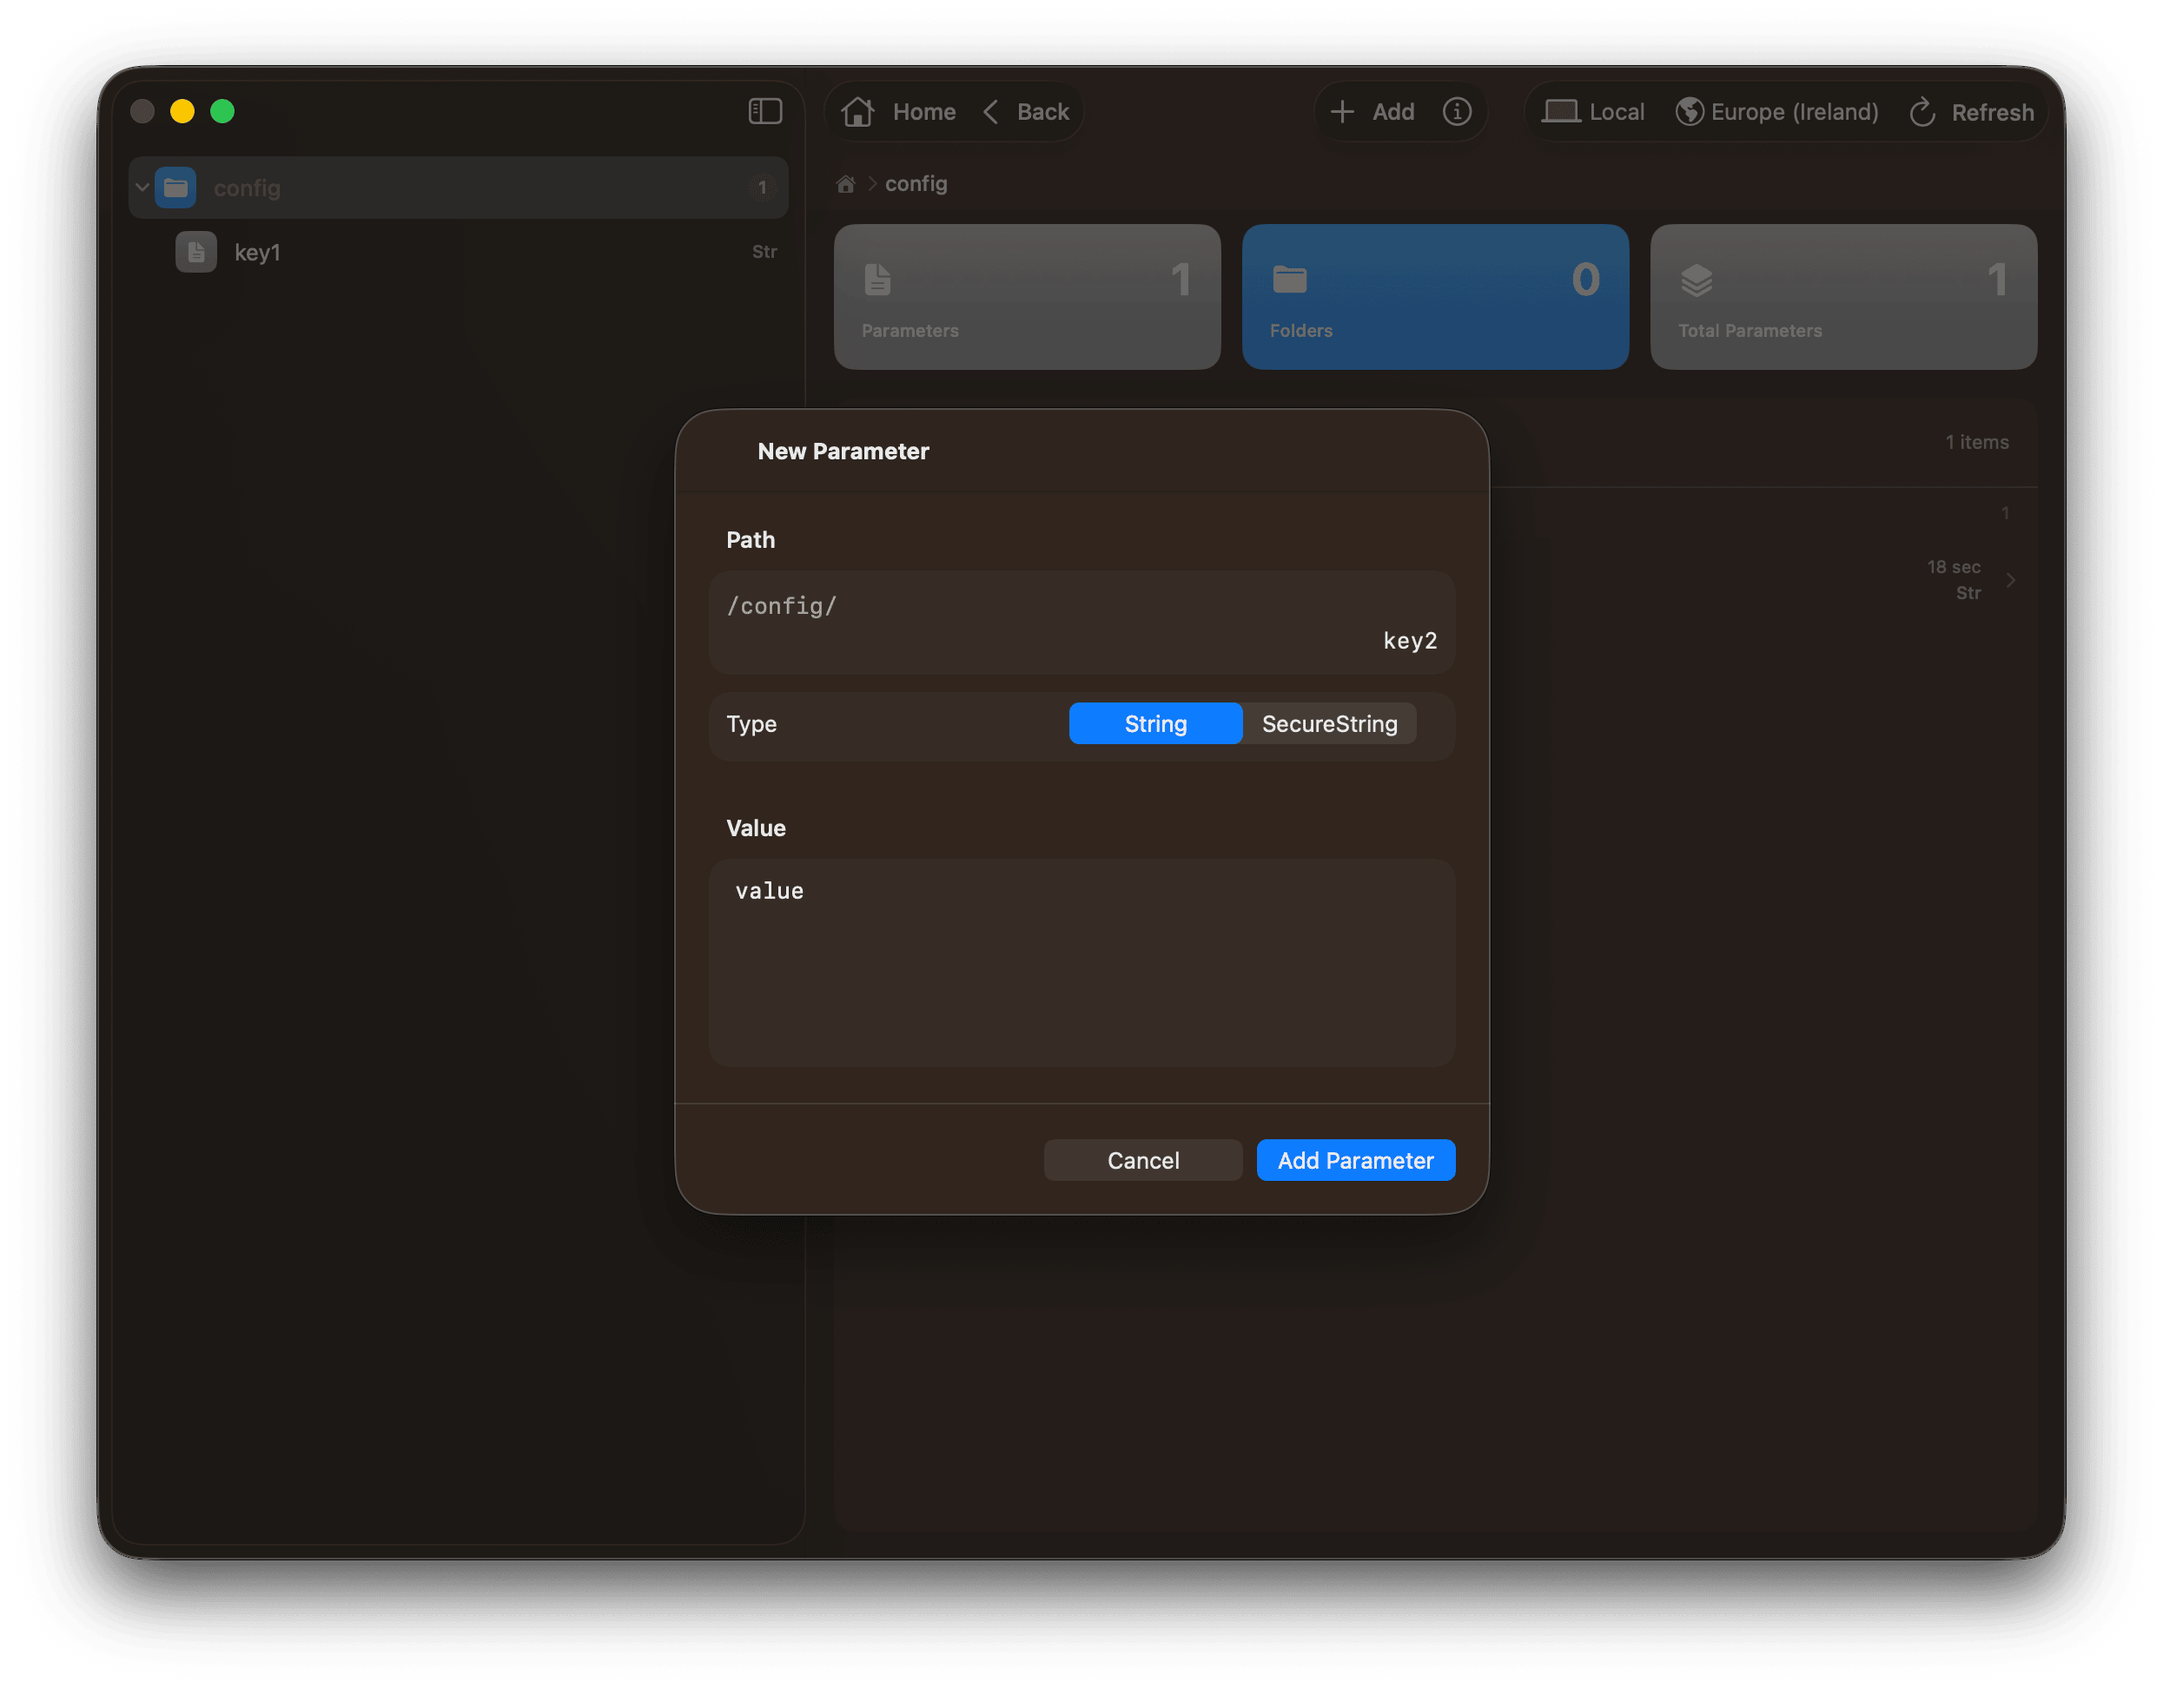
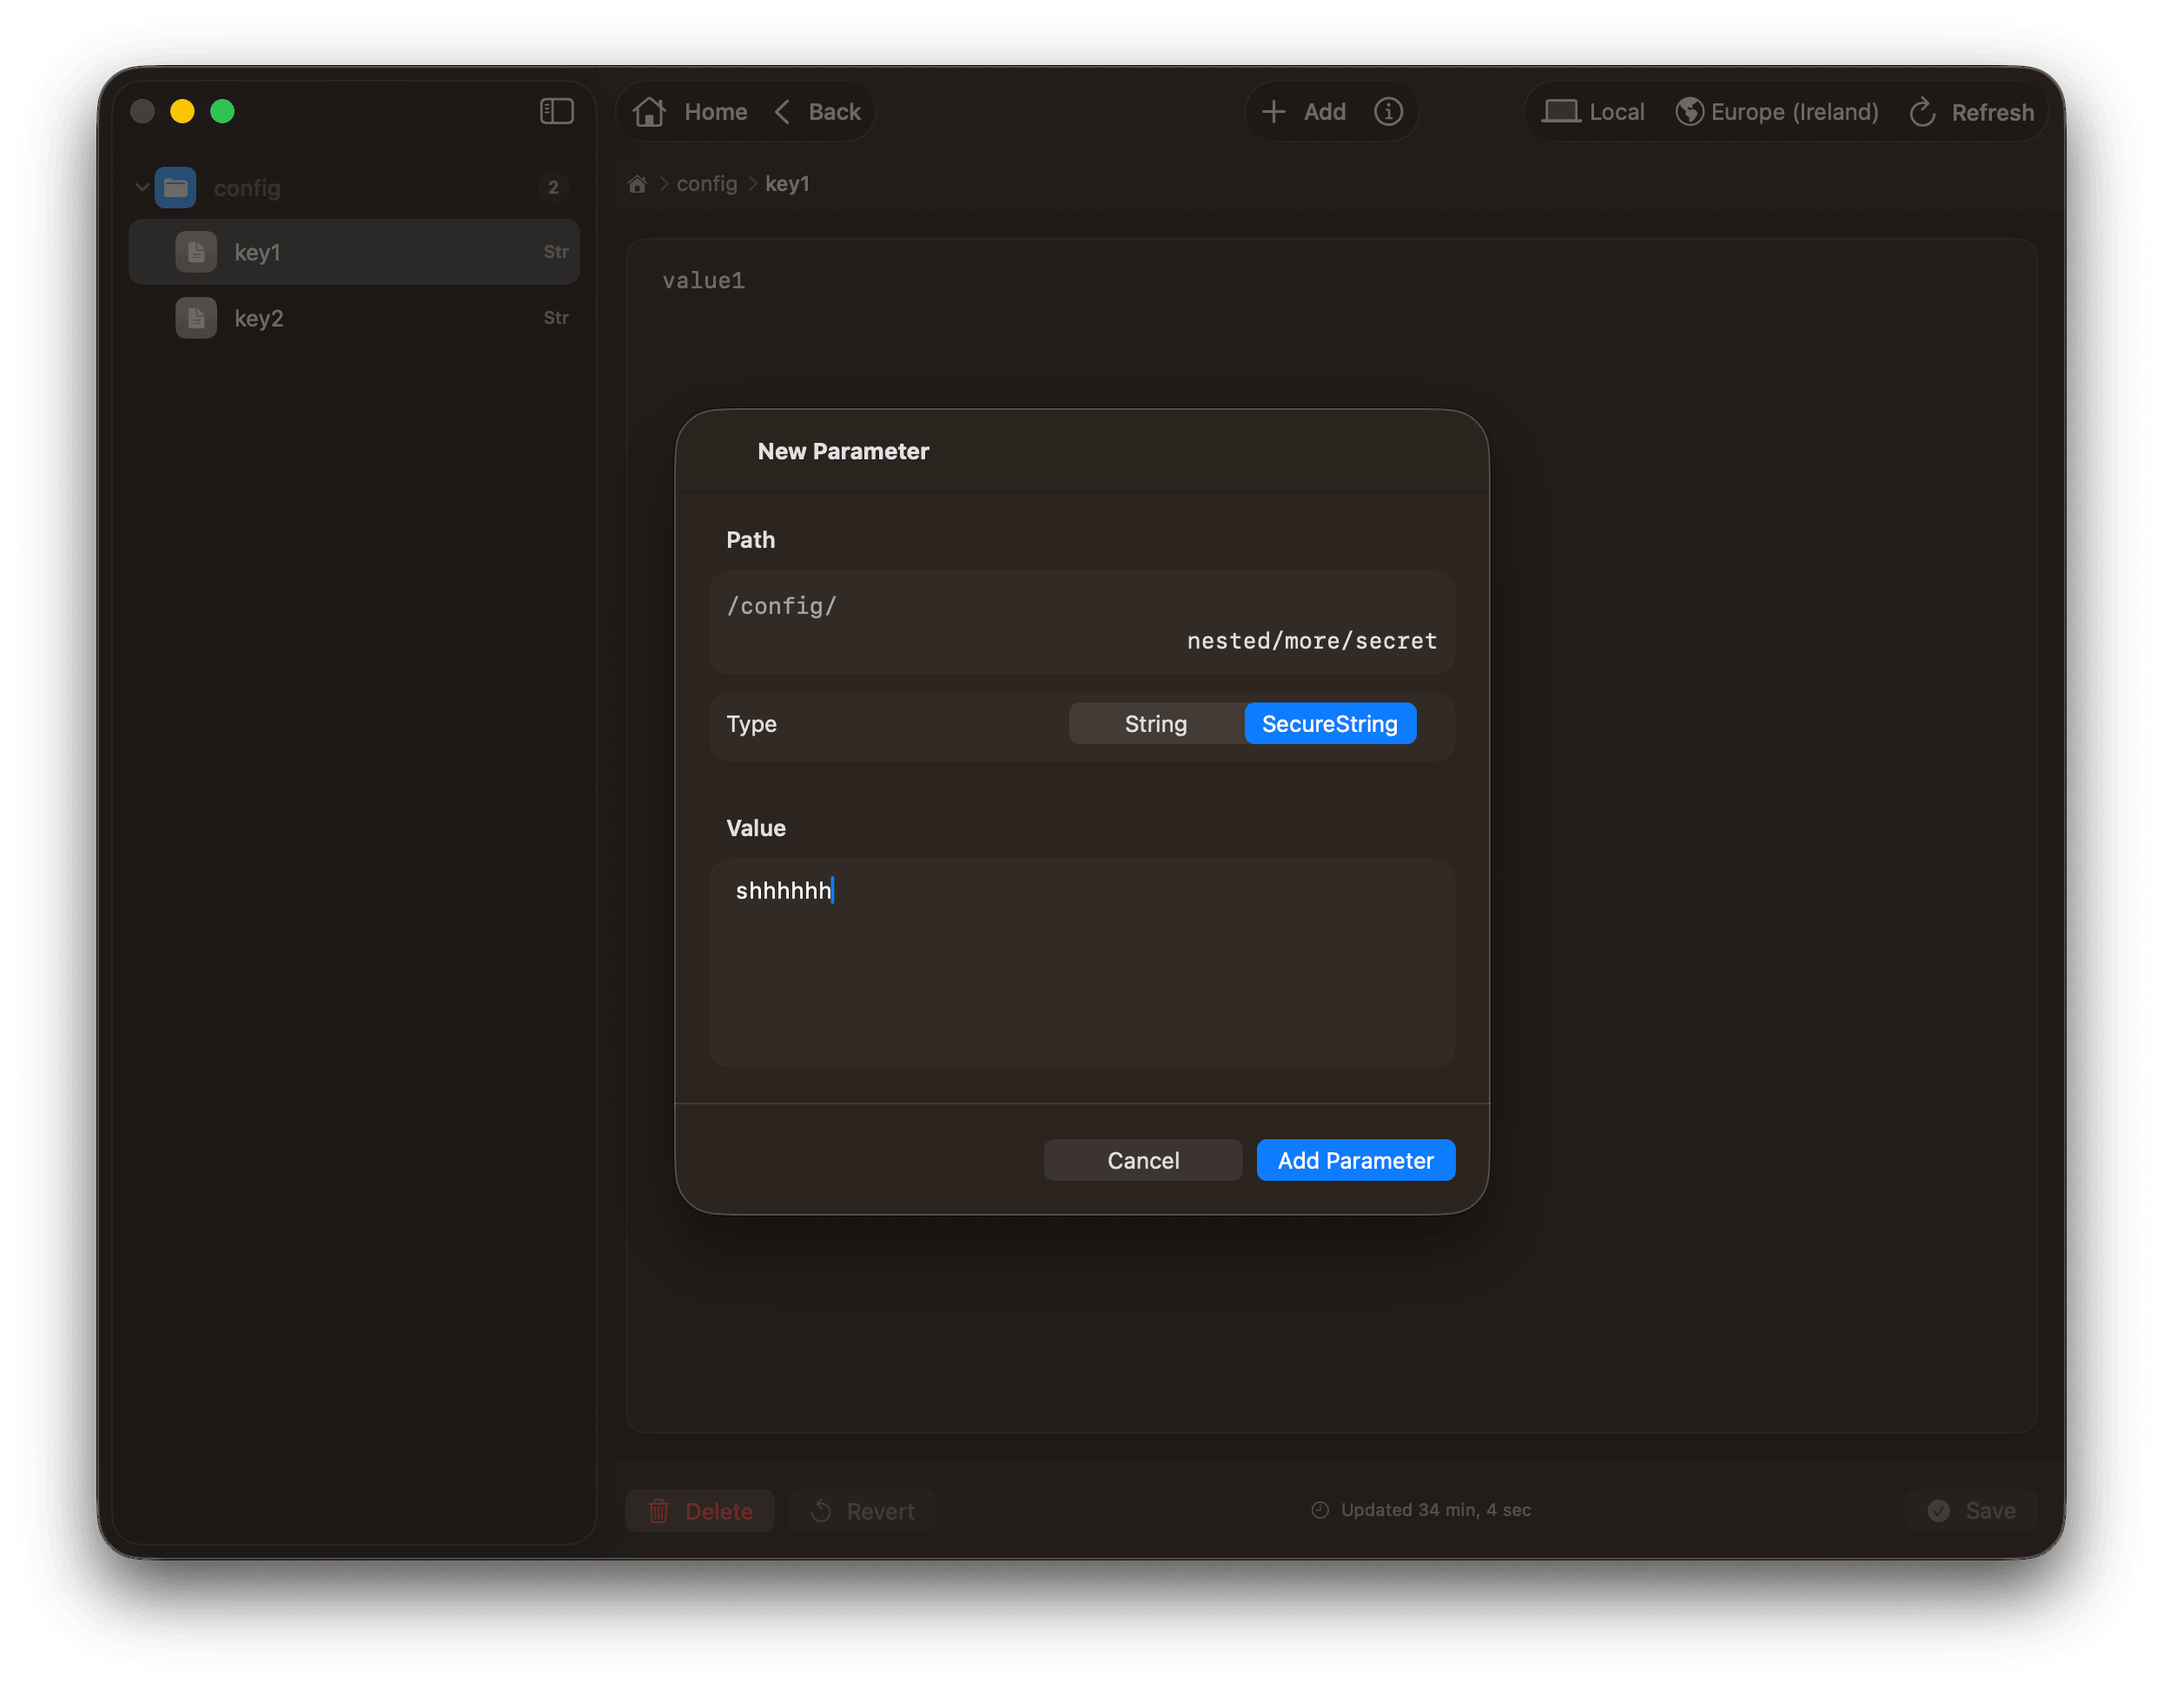
update readme

diff --git a/README.md b/README.md
@@ -1,6 +1,6 @@
 # AWS SSM Param Store UI
 
-A native macOS app for browsing and editing [AWS Systems Manager Parameter Store](https://docs.aws.amazon.com/systems-manager/latest/userguide/systems-manager-parameter-store.html).
+A native macOS app for browsing and editing [AWS Systems Manager Parameter Store](https://docs.aws.amazon.com/systems-manager/latest/userguide/systems-manager-parameter-store.html)
 
 ## Requirements
 
@@ -15,47 +15,51 @@ brew install --cask bilal-fazlani/tap/aws-ssm-param-store-ui
 ## Features
 
 ### Multi tab support
-Select connections with keyboard navigation and open new tabs with `⌘ + T`.
+Select connections with keyboard navigation and open new tabs with `⌘ + T`
 
 New windows can be opened with `⌘` + `N`
 
-Drag and drop of tabs supported.
+Drag and drop of tabs supported
 
 ![Multi tab support](readme-imgs/select-connection-multi-tab-home-screen.png)
 
 ### Dark and light mode support
-The app supports dark and light mode depending on the system appearance.
+The app supports dark and light mode depending on the system appearance
+
+View nested folders and parameters
 
 ![Dark and light mode support](readme-imgs/dark-light-mode-support.png)
 
 ### Manage connections
-The app supports managing connections to AWS Parameter Store.
+The app supports managing connections to AWS Parameter Store
 
-Support for SSO Profile, Credentials and LocalStack.
+Support for SSO Profile, Credentials and LocalStack
 
 ![Manage connections](readme-imgs/manage-connections.png)
 
 ### Built for keyboard users
-The app supports keyboard shortcuts for common actions.
+The app supports keyboard shortcuts for common actions
 
 ![Keyboard shortcuts](readme-imgs/shortcuts.png)
 
 ### Find parameter
-The app supports finding parameters by name or path.
+The app supports finding parameters by name or path
 
-The find interface is very fast and allows searching in the path and values of the parameters.
+The find interface is very fast and allows searching in the path and values of the parameters
 
 ![Find parameters](readme-imgs/find-configs.png)
 
 ### Multi region support
-The app supports easy switching between regions while maintaining current navigation context where possible.
+The app supports easy switching between regions while maintaining current navigation context where possible
 
 ![Multi region support](readme-imgs/switch-regions.png)
 
 ### Add parameter
 Easy to add new parameters with `⌘` + `⇧` + `N`
 
-Secure string values are supported.
+Secure string values are supported
+
+Any level of the hierarchy can be added to
 
 ![Add parameter](readme-imgs/add-new-param.png)
 
